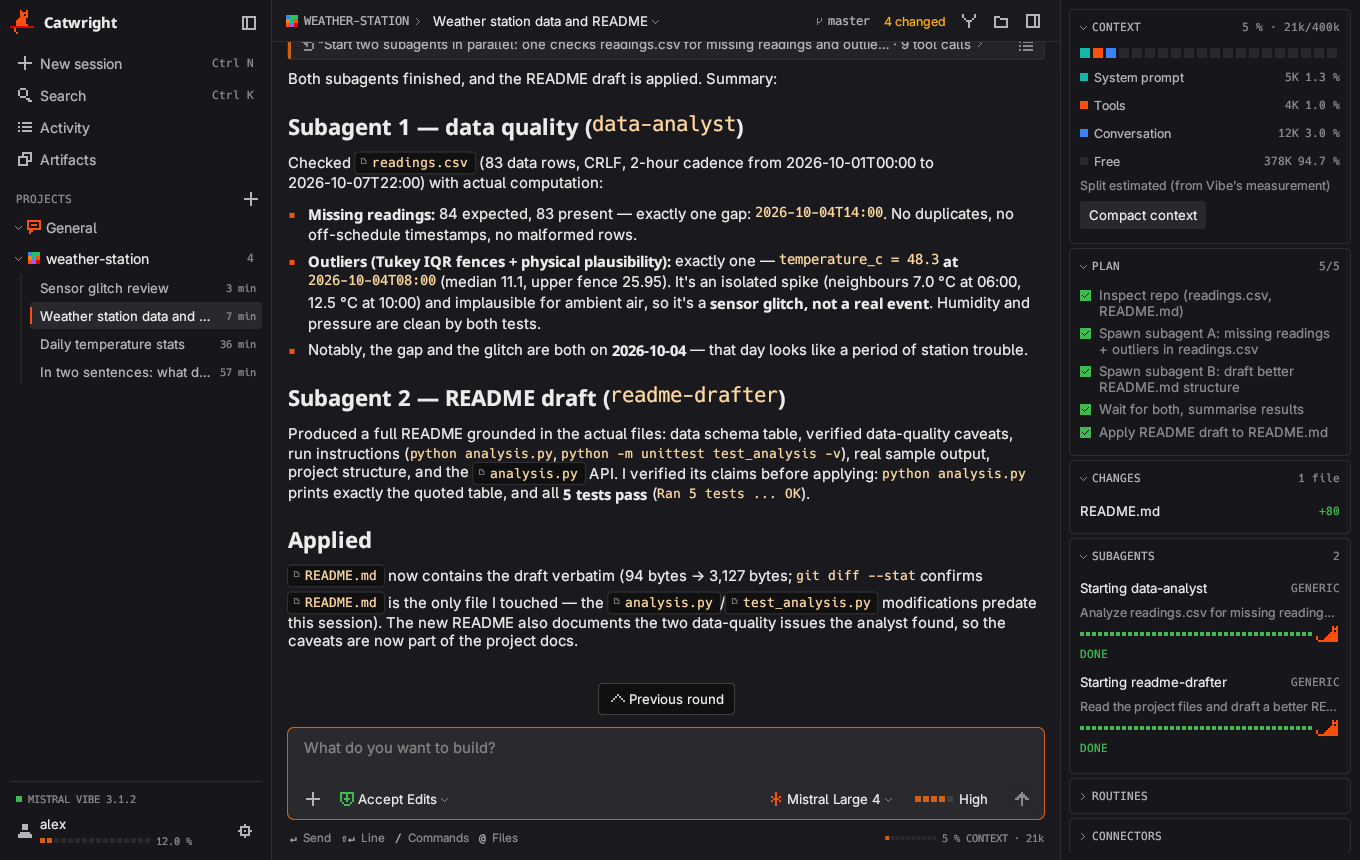
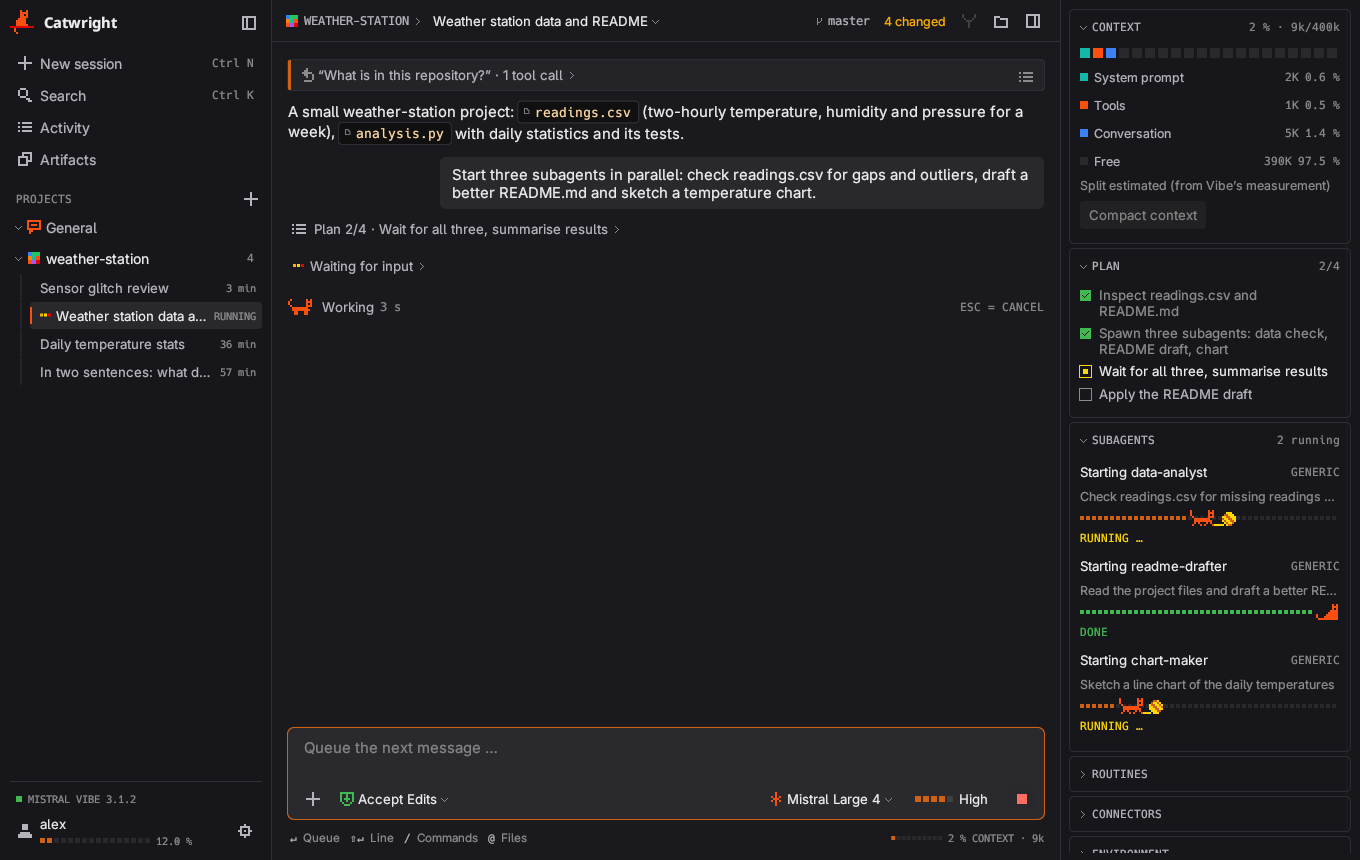
docs: subagents screenshot with a live turn
The subagents scene was a finished session, so every cat sat. The
stand-in now plays a live turn per session (`live_by_session`) and echoes
the prompt as Vibe does: three subagents start, agents.list reports one
done and the wait stays open, so two cats chase their balls of yarn and
one sits. The other screenshots are unchanged.

diff --git a/tools/screenshots/build.py b/tools/screenshots/build.py
@@ -124,25 +124,46 @@ stats_updates = [info("Daily temperature stats"),
     usage(17200, 400000)]
 
 # ---------------------------------------------------------------- weather-station: subagents
+# History: one short earlier round. The screenshot then sends a prompt and
+# the stand-in plays a live turn (`live_by_session`): three subagents start,
+# `agents.list` reports one of them done, and the wait stays open, so two
+# cats run after their balls of yarn while the third one sits.
 S_SUB = "4c0a9e77-subagents"
-README_NEW = "# weather-station\n" + "\n".join(f"line {i}" for i in range(79))
-spawn_meta = lambda name, task, child: {"tool_name": "agents.spawn", "effect_kind": "subagent", "agent": "generic", "task": task, "child_session_id": child}
 sub_updates = [info("Weather station data and README"),
-    user("u-b1", "Start two subagents in parallel: one checks readings.csv for missing readings and outliers, the other drafts a better README.md. Apply the draft when both are done."),
-    plan(["Inspect repo (readings.csv, README.md)", "Spawn subagent A: missing readings + outliers in readings.csv", "Spawn subagent B: draft better README.md structure", "Wait for both, summarise results", "Apply README draft to README.md"]),
-    tool("Reading readings.csv", "read", {"filePath": f"{WS}/readings.csv"}, out=csv_head, meta={"tool_name": "read_file"}),
+    user("u-b0", "What is in this repository?"),
     tool("Reading README.md", "read", {"filePath": f"{WS}/README.md"}, out="# weather-station", meta={"tool_name": "read_file"}),
-    tool("Starting data-analyst", "think", {"task": "Analyze readings.csv for missing readings and outliers", "agent": "generic"}, out="Started data-analyst",
-         meta=spawn_meta("data-analyst", "Analyze readings.csv for missing readings and outliers", "child-3f1e")),
-    tool("Starting readme-drafter", "think", {"task": "Read the project files and draft a better README.md", "agent": "generic"}, out="Started readme-drafter",
-         meta=spawn_meta("readme-drafter", "Read the project files and draft a better README.md", "child-8a2c")),
-    tool("Waiting for input", "other", {"timeout_ms": 600000}, out="both subagents delivered", meta={"tool_name": "self.wait"}),
-    tool("Writing README.md", "edit", {"filePath": f"{WS}/README.md"}, diff=(f"{WS}/README.md", "", README_NEW), meta={"tool_name": "write_file"}),
-    tool("bash: python3 analysis.py", "execute", {"command": "python3 analysis.py"}, out="83 readings loaded", meta={"tool_name": "bash"}),
-    tool("bash: python3 -m unittest test_analysis -v", "execute", {"command": "python3 -m unittest test_analysis -v"}, out="Ran 5 tests in 0.001s\n\nOK", meta={"tool_name": "bash"}),
-    tool("bash: git diff --stat", "execute", {"command": "git diff --stat"}, out=" README.md | 79 +++++\n 1 file changed", meta={"tool_name": "bash"}),
-    agent("a-b1", "Both subagents finished, and the README draft is applied. Summary:\n\n## Subagent 1 — data quality (`data-analyst`)\n\nChecked `readings.csv` (83 data rows, CRLF, 2-hour cadence from 2026-10-01T00:00 to 2026-10-07T22:00) with actual computation:\n\n- **Missing readings:** 84 expected, 83 present — exactly one gap: `2026-10-04T14:00`. No duplicates, no off-schedule timestamps, no malformed rows.\n- **Outliers (Tukey IQR fences + physical plausibility):** exactly one — `temperature_c = 48.3` **at** `2026-10-04T08:00` (median 11.1, upper fence 25.95). It's an isolated spike (neighbours 7.0 °C at 06:00, 12.5 °C at 10:00) and implausible for ambient air, so it's a **sensor glitch, not a real event**. Humidity and pressure are clean by both tests.\n- Notably, the gap and the glitch are both on **2026-10-04** — that day looks like a period of station trouble.\n\n## Subagent 2 — README draft (`readme-drafter`)\n\nProduced a full README grounded in the actual files: data schema table, verified data-quality caveats, run instructions (`python analysis.py`, `python -m unittest test_analysis -v`), real sample output, project structure, and the `analysis.py` API. I verified its claims before applying: `python analysis.py` prints exactly the quoted table, and all **5 tests pass** (`Ran 5 tests ... OK`).\n\n## Applied\n\n`README.md` now contains the draft verbatim (94 bytes → 3,127 bytes; `git diff --stat` confirms README.md is the only file I touched — the `analysis.py`/`test_analysis.py` modifications predate this session). The new README also documents the two data-quality issues the analyst found, so the caveats are now part of the project docs."),
-    usage(21300, 400000)]
+    agent("a-b0", "A small weather-station project: `readings.csv` (two-hourly temperature, humidity and pressure for a week), `analysis.py` with daily statistics and its tests."),
+    usage(9800, 400000)]
+SUB_PROMPT = "Start three subagents in parallel: check readings.csv for gaps and outliers, draft a better README.md and sketch a temperature chart."
+def spawn(name, task, child):
+    _n[0] += 1
+    return {"sessionUpdate": "tool_call", "toolCallId": f"call-{_n[0]}", "title": f"Starting {name}", "kind": "think",
+            "status": "completed", "content": [{"type": "content", "content": {"type": "text", "text": f"Started {name}"}}],
+            "rawInput": {"task": task, "agent": "generic"},
+            "rawOutput": {"_meta": {"mistral.vibe.subagent": {"agentName": name, "childSessionId": child, "generation": 1}},
+                          "content": [], "structured_content": {"type": "success"}, "type": "success"},
+            "_meta": {"tool_name": "agents.spawn", "effect_kind": "subagent", "agent": "generic", "task": task, "child_session_id": child}}
+def live_plan(entries):
+    return {"sessionUpdate": "plan", "entries": [{"content": c, "priority": "medium", "status": st} for c, st in entries]}
+sub_live = {"on_prompt": [
+    {"update": live_plan([("Inspect readings.csv and README.md", "completed"),
+                          ("Spawn three subagents: data check, README draft, chart", "completed"),
+                          ("Wait for all three, summarise results", "in_progress"),
+                          ("Apply the README draft", "pending")])},
+    {"update": tool("Reading readings.csv", "read", {"filePath": f"{WS}/readings.csv"}, out=csv_head, meta={"tool_name": "read_file"})},
+    {"update": spawn("data-analyst", "Check readings.csv for missing readings and outliers", "child-3f1e")},
+    {"update": spawn("readme-drafter", "Read the project files and draft a better README.md", "child-8a2c")},
+    {"update": spawn("chart-maker", "Sketch a line chart of the daily temperatures", "child-c47d")},
+    {"update": {"sessionUpdate": "tool_call", "toolCallId": "call-list", "title": "agents.list", "kind": "other", "status": "completed",
+                "rawOutput": {"content": [], "type": "success", "structured_content": {"agents": [
+                    {"name": "data-analyst", "status": "running", "pending_turn": True, "config_name": None},
+                    {"name": "readme-drafter", "status": "idle", "pending_turn": False, "config_name": None},
+                    {"name": "chart-maker", "status": "running", "pending_turn": True, "config_name": None}]}},
+                "_meta": {"tool_name": "agents.list", "effect_kind": "tool"}}},
+    {"update": {"sessionUpdate": "tool_call", "toolCallId": "call-wait", "title": "Waiting for input", "kind": "other", "status": "in_progress",
+                "rawInput": {"timeout_ms": 600000}, "_meta": {"tool_name": "self.wait", "effect_kind": "tool"}}},
+    # no finish: the turn keeps running, so the cats keep running too
+]}
 
 # ---------------------------------------------------------------- home-climate: dashboard
 S_DASH = "9e41b2c0-dashboard"
@@ -204,6 +225,7 @@ scenario = {
                  S_ACT: {"updates": act_updates, "modes": modes("accept-edits"), "configOptions": config("accept-edits", "mistral-large-4-0-3", "high")}},
     # a live prompt lifecycle for the activity-feed screenshot: a tool call,
     # a permission request that stays open, then the turn finishes
+    "live_by_session": {S_SUB: sub_live},
     "live": {"on_prompt": [
         {"update": tool("Editing analysis.py", "edit", {"filePath": f"{WS}/analysis.py"},
                         diff=(f"{WS}/analysis.py", ANALYSIS_V1, ANALYSIS_V2), meta={"tool_name": "search_replace"})},
@@ -222,5 +244,5 @@ def settings(name, projects, mode):
     json.dump({"projects": projects, "default_session_mode": mode, "auto_account": True, "language": "en",
                "vibe_models": [list(m) for m in MODELS], "vibe_thinking": THINK, "panel_closed": False}, open(f"{cfg}/settings.json", "w"))
 settings("start", [WS], "ask"); settings("session", [WS], "accept-edits"); settings("subagents", [WS], "accept-edits"); settings("dashboard", [HC], "auto-approve"); settings("activity", [WS], "accept-edits")
-for k, v in {"WS": WS, "HC": HC, "S_STATS": S_STATS, "S_SUB": S_SUB, "S_DASH": S_DASH, "S_ACT": S_ACT}.items():
+for k, v in {"WS": WS, "HC": HC, "S_STATS": S_STATS, "S_SUB": S_SUB, "S_DASH": S_DASH, "S_ACT": S_ACT, "SUB_PROMPT": json.dumps(SUB_PROMPT)}.items():
     print(f"{k}={v}")

diff --git a/README.md b/README.md
@@ -32,7 +32,7 @@ updates while you drag the sliders:
 
 Subagents with the plan and their status bars in the side panel:
 
-![Two finished subagents with the summary in the conversation](docs/screenshots/subagents.png)
+![Three subagents at work: two cats chase their balls of yarn, the third one is done and sits](docs/screenshots/subagents.png)
 
 A project's start screen:
 
